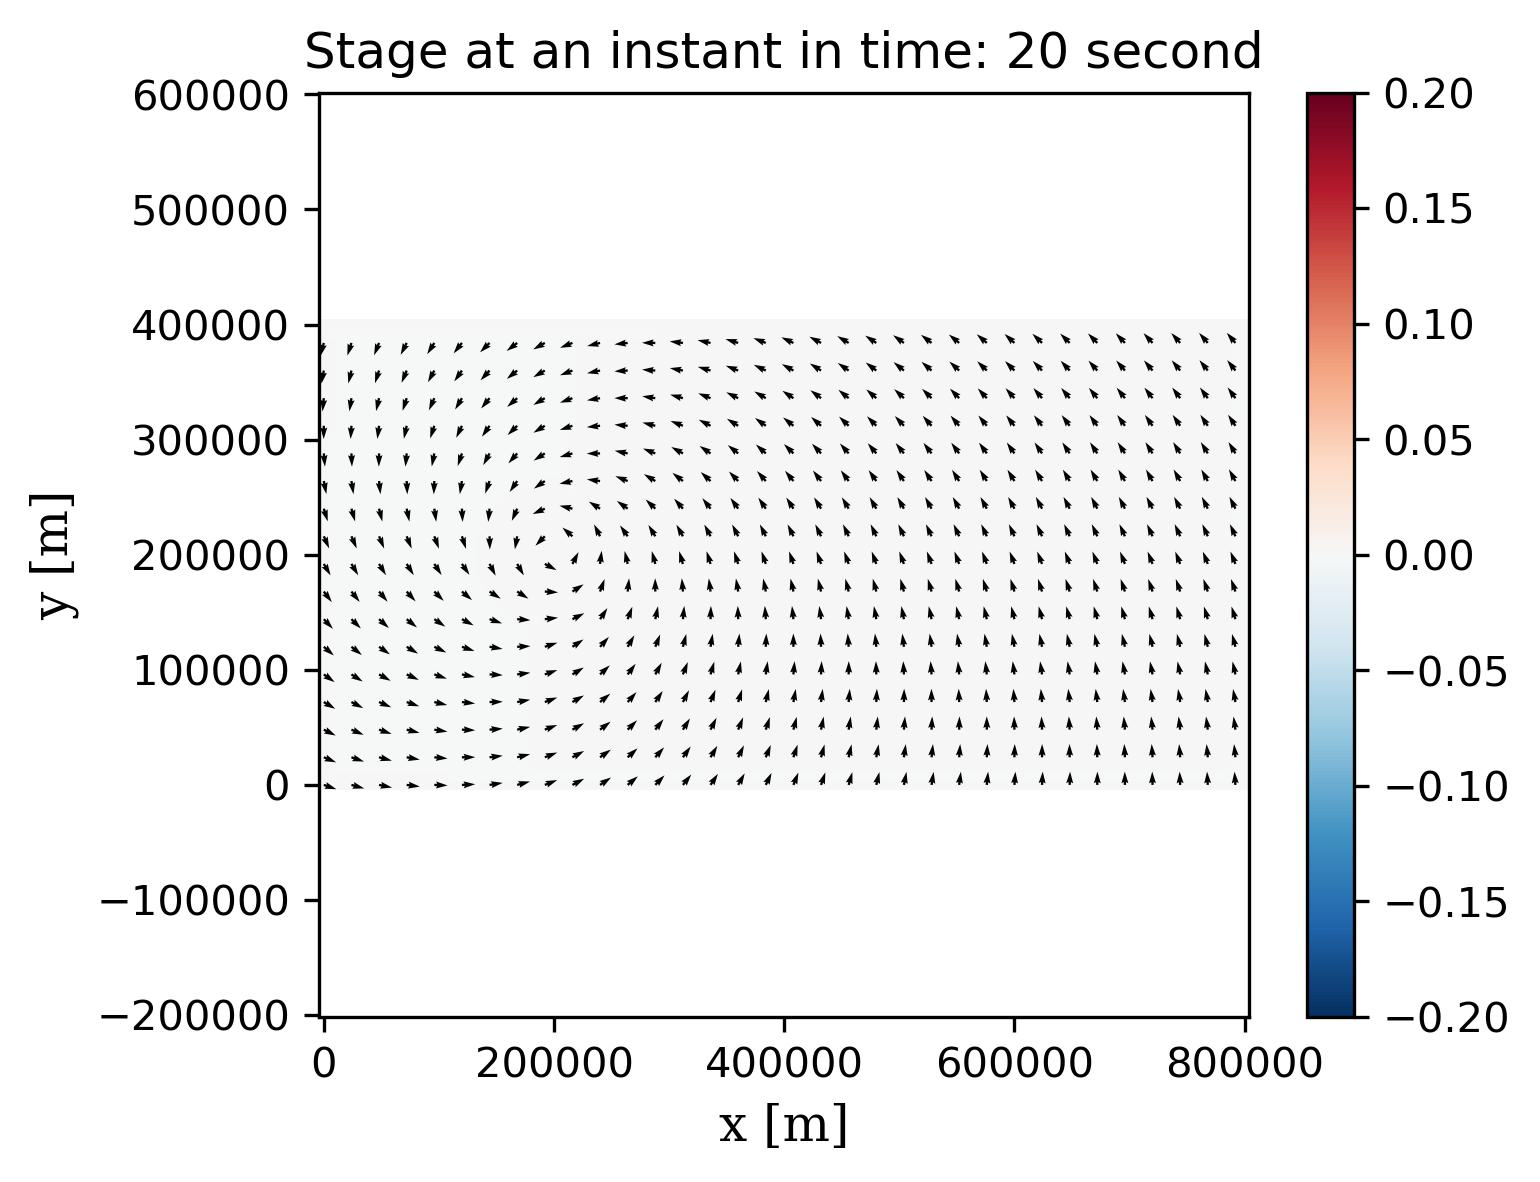
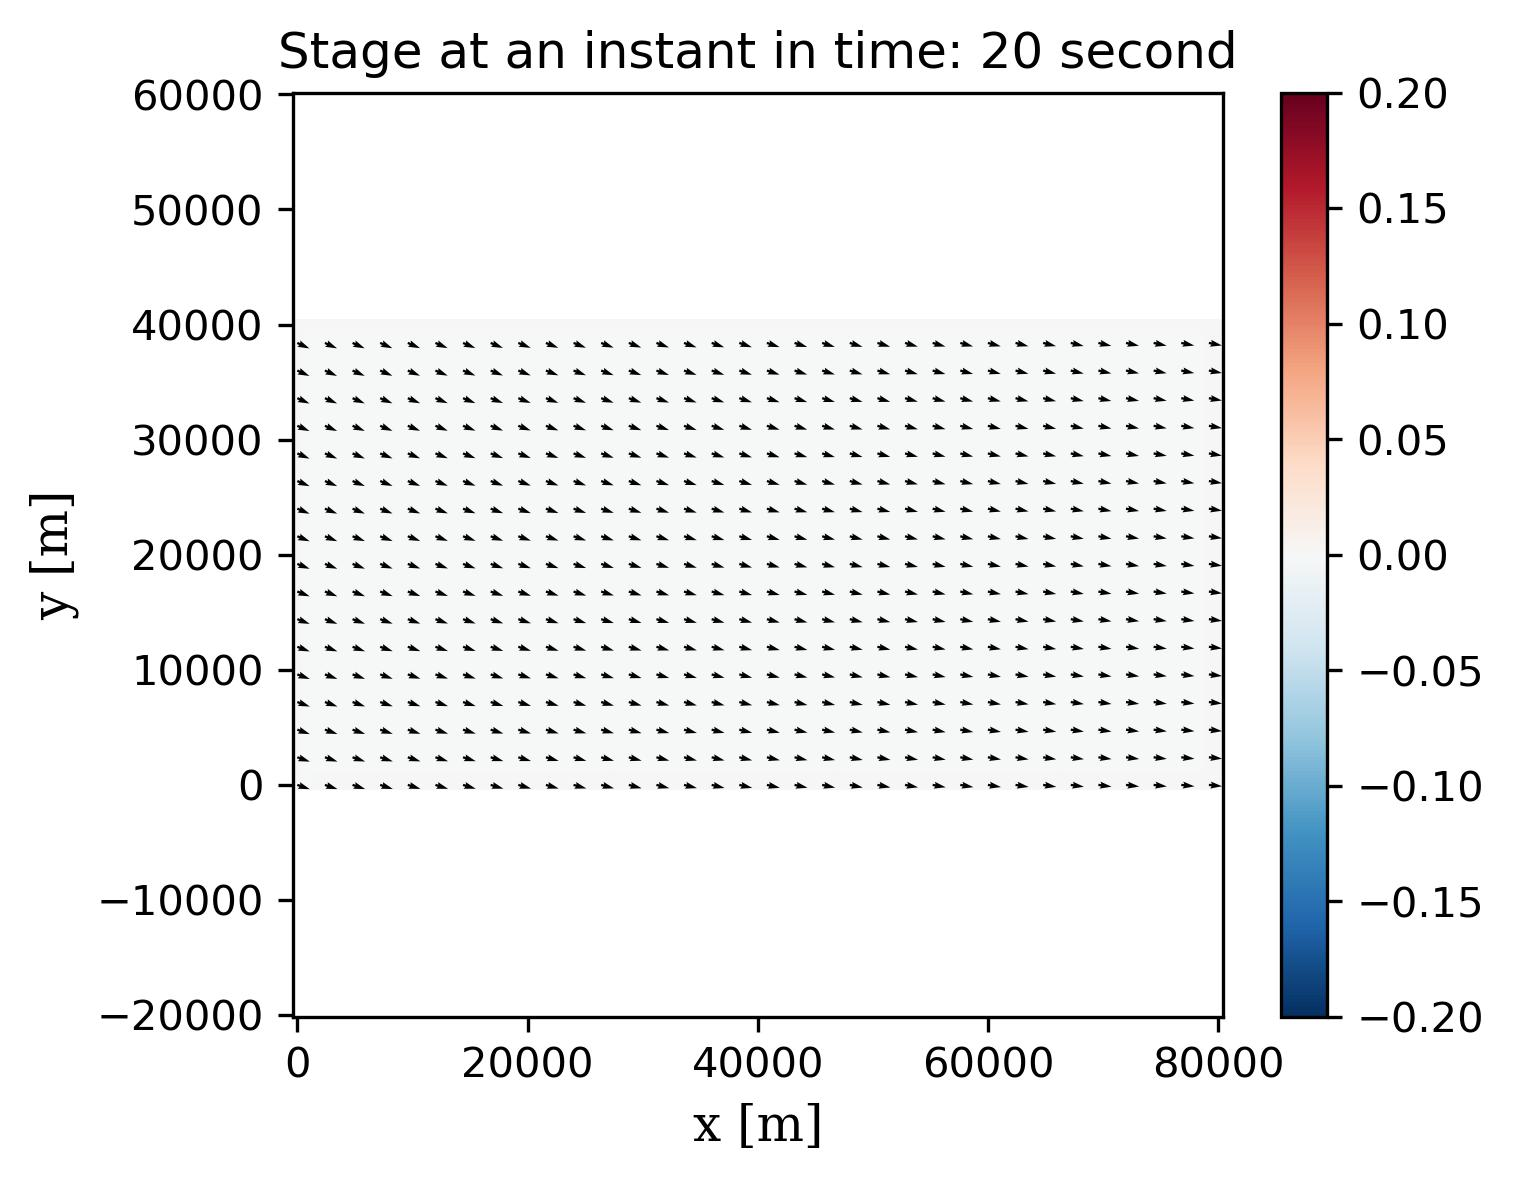
for debugging ududx

diff --git a/Case1.5 - WindStorm Torch/J65.py b/Case1.5 - WindStorm Torch/J65.py
@@ -1,4 +1,5 @@
 import numpy as np
+import torch
 from matplotlib.pyplot import *
 
 def max_wind_radius(P0, Rk):
@@ -57,55 +58,54 @@ def WindProfile(Wr, rMax, typhoon_Pos, typhoon_Vec, xx, yy):
 
     return Wx, Wy
 
-def generate_wind():
-    # for itime in range(params.NT):
-    #     typhoon_Pos = [200*1e3 + itime*params.dt*params.typhoon_Vec[0], 
-    #                   200*1e3 + itime*params.dt*params.typhoon_Vec[1]]
-    #     Wx[itime], Wy[itime] = WindProfile(params.Wr, params.rMax, typhoon_Pos, params.typhoon_Vec, X, Y)
+def generate_wind(X,Y,params,output = False):
+    NT = params.NT
+    Wx = np.ones((NT,X.shape[0],X.shape[1]))*0
+    Wy = np.ones((NT,X.shape[0],X.shape[1]))*0
+    #Pa = Wx * 0 + 1000
+    for itime in range(params.NT):
+        typhoon_Pos = [200*1e3 + itime*params.dt*params.typhoon_Vec[0], 
+                      200*1e3 + itime*params.dt*params.typhoon_Vec[1]]
+        Wx[itime], Wy[itime] = WindProfile(params.Wr, params.rMax, typhoon_Pos, params.typhoon_Vec, X, Y)
     
     Wx = torch.from_numpy(Wx)
     Wy = torch.from_numpy(Wy)
     
-    # Pa = 1000 + Wx*0
-    # Ws = windSpeed = torch.sqrt(Wx * Wx + Wy * Wy)
-    # sustr = params.rho_air / params.rho_water * params.Cd * windSpeed * Wx
-    # svstr = params.rho_air / params.rho_water * params.Cd * windSpeed * Wy
-    #
-    # sustr = np.concatenate((sustr[:,:,0:1], sustr), 2)
-    # svstr = np.concatenate((svstr[:,0:1,:], svstr), 1)
-    # #sustr = np.concatenate((sustr[:,0:1,:], sustr), 1)
-    # #svstr = np.concatenate((svstr[:,:,0:1], svstr), 2)
-    # # lon_u = np.vstack([X[0, :] - 0.5 * (X[1, :] - X[0, :]), 0.5 * (X[:-1, :] + X[1:, :]), X[-1, :] + 0.5 * (X[-1, :] - X[-2, :])])
-    # # lat_u = np.vstack([Y[0, :] - 0.5 * (Y[1, :] - Y[0, :]), 0.5 * (Y[:-1, :] + Y[1:, :]), Y[-1, :] + 0.5 * (Y[-1, :] - Y[-2, :])])
-    # # lon_v = np.hstack([X[:, 0:1] - 0.5 * (X[:, 1:2] - X[:, 0:1]), 0.5 * (X[:, :-1] + X[:, 1:]), X[:, -1:] + 0.5 * (X[:, -1:] - X[:, -2:-1])])
-    # # lat_v = np.hstack([Y[:, 0:1] - 0.5 * (Y[:, 1:2] - Y[:, 0:1]), 0.5 * (Y[:, :-1] + Y[:, 1:]), Y[:, -1:] + 0.5 * (Y[:, -1:] - Y[:, -2:-1])])
-    # lon_u = np.hstack([X[:, 0:1] - 0.5 * (X[:, 1:2] - X[:, 0:1]), 0.5 * (X[:, :-1] + X[:, 1:]), X[:, -1:] + 0.5 * (X[:, -1:] - X[:, -2:-1])])
-    # lat_u = np.hstack([Y[:, 0:1] - 0.5 * (Y[:, 1:2] - Y[:, 0:1]), 0.5 * (Y[:, :-1] + Y[:, 1:]), Y[:, -1:] + 0.5 * (Y[:, -1:] - Y[:, -2:-1])])
-    # lon_v = np.vstack([X[0, :] - 0.5 * (X[1, :] - X[0, :]), 0.5 * (X[:-1, :] + X[1:, :]), X[-1, :] + 0.5 * (X[-1, :] - X[-2, :])])
-    # lat_v = np.vstack([Y[0, :] - 0.5 * (Y[1, :] - Y[0, :]), 0.5 * (Y[:-1, :] + Y[1:, :]), Y[-1, :] + 0.5 * (Y[-1, :] - Y[-2, :])])
-    # time = (  np.arange(0, (NT)*dt,dt, dtype=np.float64) )/86400.
-    # ds_out = xr.Dataset(
-    #         {'sustr': (['sms_time','lat_u', 'lon_u'], sustr.swapaxes(1,2)*1e3),  #for ROMS
-    #          'svstr': (['sms_time','lat_v', 'lon_v'], svstr.swapaxes(1,2)*1e3),
-    #          'lon_u': (['lat_u','lon_u'], lon_u.transpose()),
-    #          'lat_u': (['lat_u','lon_u'], lat_u.transpose()),
-    #          'lon_v': (['lat_v','lon_v'], lon_v.transpose()),
-    #          'lat_v': (['lat_v','lon_v'], lat_v.transpose())},
-    #         coords={
-    #             'sms_time': time}   )
-    # #写入字段
-    # ds_out['sustr'].attrs['long_name'] = "sustr"
-    # ds_out['sustr'].attrs['units'] = "N m-2"
-    # ds_out['sustr'].attrs['coordinates'] = "lat_u lon_u"
-    # ds_out['sustr'].attrs['time'] = "sms_time"
-    # ds_out['svstr'].attrs['long_name'] = "svstr"
-    # ds_out['svstr'].attrs['units'] = "N m-2"
-    # ds_out['svstr'].attrs['coordinates'] = "lat_v lon_v"
-    # ds_out['svstr'].attrs['time'] = "sms_time" 
+    Pa = 1000 + Wx*0
+    Ws = windSpeed = torch.sqrt(Wx * Wx + Wy * Wy)
+    sustr = params.rho_air / params.rho_water * params.Cd * windSpeed * Wx
+    svstr = params.rho_air / params.rho_water * params.Cd * windSpeed * Wy
     
-    # ds_out['sms_time'].attrs['units'] = "days since 0001-01-01 00:00:00"
-    
-    # ds_out.to_netcdf('WindStrMove'+str(Wr)+str(int(rMax/1000))+'.nc')
+    if output:
+        sustr = np.concatenate((sustr[:,:,0:1], sustr), 2)
+        svstr = np.concatenate((svstr[:,0:1,:], svstr), 1)
+        lon_u = np.hstack([X[:, 0:1] - 0.5 * (X[:, 1:2] - X[:, 0:1]), 0.5 * (X[:, :-1] + X[:, 1:]), X[:, -1:] + 0.5 * (X[:, -1:] - X[:, -2:-1])])
+        lat_u = np.hstack([Y[:, 0:1] - 0.5 * (Y[:, 1:2] - Y[:, 0:1]), 0.5 * (Y[:, :-1] + Y[:, 1:]), Y[:, -1:] + 0.5 * (Y[:, -1:] - Y[:, -2:-1])])
+        lon_v = np.vstack([X[0, :] - 0.5 * (X[1, :] - X[0, :]), 0.5 * (X[:-1, :] + X[1:, :]), X[-1, :] + 0.5 * (X[-1, :] - X[-2, :])])
+        lat_v = np.vstack([Y[0, :] - 0.5 * (Y[1, :] - Y[0, :]), 0.5 * (Y[:-1, :] + Y[1:, :]), Y[-1, :] + 0.5 * (Y[-1, :] - Y[-2, :])])
+        time = (  np.arange(0, (NT)*dt,dt, dtype=np.float64) )/86400.
+        ds_out = xr.Dataset(
+                {'sustr': (['sms_time','lat_u', 'lon_u'], sustr.swapaxes(1,2)*1e3),  #for ROMS
+                 'svstr': (['sms_time','lat_v', 'lon_v'], svstr.swapaxes(1,2)*1e3),
+                 'lon_u': (['lat_u','lon_u'], lon_u.transpose()),
+                 'lat_u': (['lat_u','lon_u'], lat_u.transpose()),
+                 'lon_v': (['lat_v','lon_v'], lon_v.transpose()),
+                 'lat_v': (['lat_v','lon_v'], lat_v.transpose())},
+                coords={
+                    'sms_time': time}   )
+        #写入字段
+        ds_out['sustr'].attrs['long_name'] = "sustr"
+        ds_out['sustr'].attrs['units'] = "N m-2"
+        ds_out['sustr'].attrs['coordinates'] = "lat_u lon_u"
+        ds_out['sustr'].attrs['time'] = "sms_time"
+        ds_out['svstr'].attrs['long_name'] = "svstr"
+        ds_out['svstr'].attrs['units'] = "N m-2"
+        ds_out['svstr'].attrs['coordinates'] = "lat_v lon_v"
+        ds_out['svstr'].attrs['time'] = "sms_time" 
+        
+        ds_out['sms_time'].attrs['units'] = "days since 0001-01-01 00:00:00"
+        
+        ds_out.to_netcdf('WindStrMove'+str(Wr)+str(int(rMax/1000))+'.nc')
 
     #pcolor(X,Y,(Wx**2+Wy**2)**0.5);colorbar()
-    return Wx, Wy
+    return Wx, Wy, Pa

diff --git a/Case1.5 - WindStorm Torch/main_Hydro_Base_BryOK_windStorm_Torch.py b/Case1.5 - WindStorm Torch/main_Hydro_Base_BryOK_windStorm_Torch.py
@@ -14,13 +14,13 @@ from tools import ududx_up,vdudy_up,udvdx_up,vdvdy_up
 class Params:
     def __init__(self):
         # Domain parameters
-        self.Lx = 800
-        self.Ly = 400
-        self.Nx = 200
-        self.Ny = 100
+        self.Lx = 80000
+        self.Ly = 40000
+        self.Nx = 100
+        self.Ny = 50
         self.dx = self.Lx / self.Nx
         self.dy = self.Ly / self.Ny
-        self.depth = 10.0
+        self.depth = 50.0
         
         # Physical constants
         self.g = 9.8
@@ -34,14 +34,14 @@ class Params:
         self.f_cor = 1e-5
         
         # Time parameters
-        self.dt = 2
-        self.NT = 100
+        self.dt = 10
+        self.NT = 1000
         self.centerWeighting0 = 0.9998
         
         # Boundary conditions
-        self.obc_ele = ['Clo', 'Clo', 'Clo', 'Clo']
-        self.obc_u2d = ['Clo', 'Clo', 'Clo', 'Clo'] 
-        self.obc_v2d = ['Clo', 'Clo', 'Clo', 'Clo']
+        self.obc_ele = ['Gra', 'Gra', 'Gra', 'Gra']
+        self.obc_u2d = ['Gra', 'Gra', 'Gra', 'Gra'] 
+        self.obc_v2d = ['Gra', 'Gra', 'Gra', 'Gra']
         
         # Temporary variables
         self.CC1 = self.dt / self.dx
@@ -116,8 +116,9 @@ def mass_cartesian_torch(H, Z, M, N, params):
     H_new = torch.stack((H0, H1), dim=0)
     H_new = bcond_zeta(H_new, Z, params)
     
+    assert not torch.any(torch.isnan(H_new))
     #TODO boundary tide
-    H_new[1,1,:] = 1.0 * np.sin(2 * np.pi / 200 * params.itime * params.dt)
+    #H_new[1,1,:] = 1.0 * np.sin(2 * np.pi / 200 * params.itime * params.dt)
     return H_new
 
 def momentum_nonlinear_cartesian_torch(H, Z, M, N, Wx, Wy, Pa, params):
@@ -209,7 +210,8 @@ def momentum_nonlinear_cartesian_torch(H, Z, M, N, Wx, Wy, Pa, params):
             - CC2 * vdudy                                  #v advection
             - CC3 * D0*(h2u_M - h1u_M) + Pre_grad_x)         #pgf
     
-    #pcolor(rho2u(X),rho2u(Y),M_val/D_M);colorbar();show()
+    pcolor(rho2u(X),rho2u(Y),ududx);colorbar();show()
+    pcolor(rho2u(X),rho2u(Y),vdudy);colorbar();show()
     
     mask_fs999_M = (flux_sign_M == 999)
     M_val = torch.where(mask_fs999_M, torch.zeros_like(M_val), M_val)
@@ -262,8 +264,7 @@ def momentum_nonlinear_cartesian_torch(H, Z, M, N, Wx, Wy, Pa, params):
             - CC1 * udvdx
             - CC2 * vdvdy
             - (CC4 * D0N * (h1u_N - h2u_N) + Pre_grad_y))
-    #pcolor(rho2v(X),rho2v(Y),N_val/D_N);colorbar();show()
-    
+      
     mask_fs999_N = (flux_sign_N == 999)
     N_val = torch.where(mask_fs999_N, torch.zeros_like(N_val), N_val)
 
@@ -276,25 +277,28 @@ def momentum_nonlinear_cartesian_torch(H, Z, M, N, Wx, Wy, Pa, params):
 
     N_new = N.clone()
     N_new[1,1:-1,1:-1] = N_val[1:-1,1:-1]
+    pcolor(rho2v(X)[1:-1,1:-1],rho2v(Y)[1:-1,1:-1],N_val[1:-1,1:-1]/D_N[1:-1,1:-1]);colorbar();show()
     
     # apply boundary condition
-    z_w = 0.05 * np.sin(2 * np.pi / 0.25 * itime * dt) * (np.zeros((Ny + 1, 1)) + 1)
+    z_w = 0 #.05 * np.sin(2 * np.pi / 0.25 * itime * dt) * (np.zeros((Ny + 1, 1)) + 1)
     z_s = 0
     z_n = 0
     z_e = 0
-    #M_update = bcond_u2D(H_update, Z, M, D_M, z_w, z_e, params)
-    #N_update = bcond_v2D(H_update, Z, N, D_N, z_s, z_n, params)
-    M_new[:,0,:]=0
-    M_new[:,-1,:]=0
-    M_new[:,:,0]=0
-    M_new[:,:,-1]=0
-    N_new[:,0,:]=0
-    N_new[:,-1,:]=0
-    N_new[:,:,0]=0
-    N_new[:,:,-1]=0
+    M_update = bcond_u2D(H_update, Z, M, D_M, z_w, z_e, params)
+    N_update = bcond_v2D(H_update, Z, N, D_N, z_s, z_n, params)
+    # M_new[:,0,:]=0
+    # M_new[:,-1,:]=0
+    # M_new[:,:,0]=0
+    # M_new[:,:,-1]=0
+    # N_new[:,0,:]=0
+    # N_new[:,-1,:]=0
+    # N_new[:,:,0]=0
+    # N_new[:,:,-1]=0
     #N_new[0,:]=0
     #N_new[0,:]=0
-
+    assert not torch.any(torch.isnan(M_new))
+    assert not torch.any(torch.isnan(N_new))
+    
     return M_new, N_new
     
 def reconstruct_flow_depth_torch(H, Z, M, N, params):
@@ -717,6 +721,7 @@ if __name__ == '__main__':
     device = torch.device('cpu')
     
     dt = params.dt
+    NT = params.NT
     
     x = torch.linspace(0, params.Lx, params.Nx + 1)
     y = torch.linspace(0, params.Ly, params.Ny + 1)
@@ -727,10 +732,16 @@ if __name__ == '__main__':
     H = torch.zeros((2, params.Nx+1, params.Ny+1))
     Z = torch.ones((params.Nx+1, params.Ny+1)) * params.depth
     
-    H[0] = 1 * torch.exp(-((X-400)**2 + (Y-200)**2) / (2 * 5.0**2))
+    H[0] = 1 * torch.exp(-((X-400)**2 + (Y-400)**2) / (2 * 5.0**2))
+    #
+    #Wx,Wy,Pa = generate_wind(X,Y,params)
+    #Ws = torch.sqrt(Wx**2 + Wy**2)
+    #
+    Wx = np.ones((NT,X.shape[0],X.shape[1]))*0 + 10
+    Wy = np.ones((NT,X.shape[0],X.shape[1]))*0
     
-    Wx = torch.ones((x.shape[0], y.shape[0]))*0
-    Wy = torch.ones((x.shape[0], y.shape[0]))*0
+    Wx = torch.from_numpy(Wx)
+    Wy = torch.from_numpy(Wy)
     Pa = Wx * 0 + 1000
     
     eta_list = list()
@@ -743,7 +754,7 @@ if __name__ == '__main__':
         params.itime=itime
         H_update = mass_cartesian_torch(H, Z, M, N, params)
         
-        M_update, N_update = momentum_nonlinear_cartesian_torch(H_update, Z, M, N, Wx, Wy, Pa, params)
+        M_update, N_update = momentum_nonlinear_cartesian_torch(H_update, Z, M, N, Wx[itime], Wy[itime], Pa[itime], params)
 
         H[0] = H_update[1]
         M[0] = M_update[1]
@@ -790,8 +801,8 @@ if __name__ == '__main__':
         vbar = v_list[ind2plot]
         pcolor(X, Y, eta_list[ind2plot], vmin=-.2,vmax=.2, cmap=plt.cm.RdBu_r)
         colorbar()
+        quiver(X[::3,::3],Y[::3,::3],ubar[::3,::3],vbar[::3,::3], scale=70)
         #quiver(X[::3,::3],Y[::3,::3],(Wx/Ws)[ind2plot,::3,::3],(Wy/Ws)[ind2plot,::3,::3], scale=70)
-        quiver(X[::3,::3],Y[::3,::3],(Wx/Ws)[ind2plot,::3,::3],(Wy/Ws)[ind2plot,::3,::3], scale=70)
         axis('equal')
         savefig("ele_Rad" + f"{itime*dt}" + "s.jpg", format='jpg', dpi=300, bbox_inches='tight')
         #show()

diff --git a/Case1.5 - WindStorm Torch/tools.py b/Case1.5 - WindStorm Torch/tools.py
@@ -2,6 +2,7 @@ import torch
 import torch.nn.functional as F
 import time
 import numpy as np
+from matplotlib.pyplot import pcolor,colorbar
 
 def dd(var): #detach and operations
     return var.detach().cpu().numpy().squeeze()
@@ -117,7 +118,7 @@ def ududx_up(M,N,H): #(16)
     L11 = (1 - L12)//2          # 0 ~ Nx-1, total of Nx
     L13 = -L12 - L11            # 0 ~ Nx-1, total of Nx
     assert torch.all(L11+L12+L13 == 0)
-    assert torch.all(L11 <2)
+    assert torch.all(L11 < 2)
     
     t1 = L11[1:-1] * M[2:]**2 /Hu[1:-1]   # Nx - 2
     t2 = L12[1:-1] * M[1:-1]**2/Hu[1:-1]  # 
@@ -140,15 +141,15 @@ def vdudy_up(M,N,H):
     N_exp = torch.cat( (N[:,0:1], N, N[:,-1:]), dim = 1)
     Nu = rho2u(v2rho(N_exp)) #at u-point, [ 0 ~ Nx, 1 ~ Ny-1]
     
+    #These 
     L22 = torch.sign(Nu + 1e-12) # same with Nu
     L21 = (1 - L22)//2           #
     L23 = -L22 - L21             #
-    assert torch.all(L21+L22+L23 == 0)
+    assert torch.all(L21+L22+L23 == 0) and torch.all(L21 < 2)
     
     Hu = rho2u(H) #H at u-point 1/2, 3/2, 5/2, 0 ~ Nx, total of Nx
     
     # M all at i + 1/2 
-    ## TODO
     t1 = L21[:,1:-1] * M[:, 2:  ] * Nu[:,2:]   / Hu[:,:-2]   # [Nx - 1, Ny - 2]
     t2 = L22[:,1:-1] * M[:, 1:-1] * Nu[:,1:-1] / Hu[:,1:-1]   # 
     t3 = L23[:,1:-1] * M[:, :-2]  * Nu[:,:-2]  / Hu[:,2:]
@@ -175,7 +176,7 @@ def udvdx_up(M,N,H):
     L32 = torch.sign(Mv + 1e-12) # 0 ~ Nx-1, total of Nx
     L31 = (1 - L32)//2          # 0 ~ Nx-1, total of Nx
     L33 = -L32 - L31            # 0 ~ Nx-1, total of Nx
-    assert torch.all(L31+L32+L33 == 0)
+    assert torch.all(L31+L32+L33 == 0) and torch.all(L31 < 2)
     
     t1 = L31[1:-1] * Mv[2:  ] * N[1:-1]/Hv[:-2]   # Nx-1, Ny
     t2 = L32[1:-1] * Mv[1:-1] * N[1:-1]/Hv[1:-1]  # Nx-1, Ny
@@ -198,7 +199,7 @@ def vdvdy_up(M,N,H): #done
     L42 = torch.sign(N + 1e-12)  # 
     L41 = (1 - L42)//2           #
     L43 = -L42 - L41             #
-    assert torch.all(L41+L42+L43 == 0)
+    assert torch.all(L41+L42+L43 == 0) and torch.all(L41 < 2)
     
     Hv = rho2v(H) #H at v-point 0 ~ Ny, total of Ny
     
